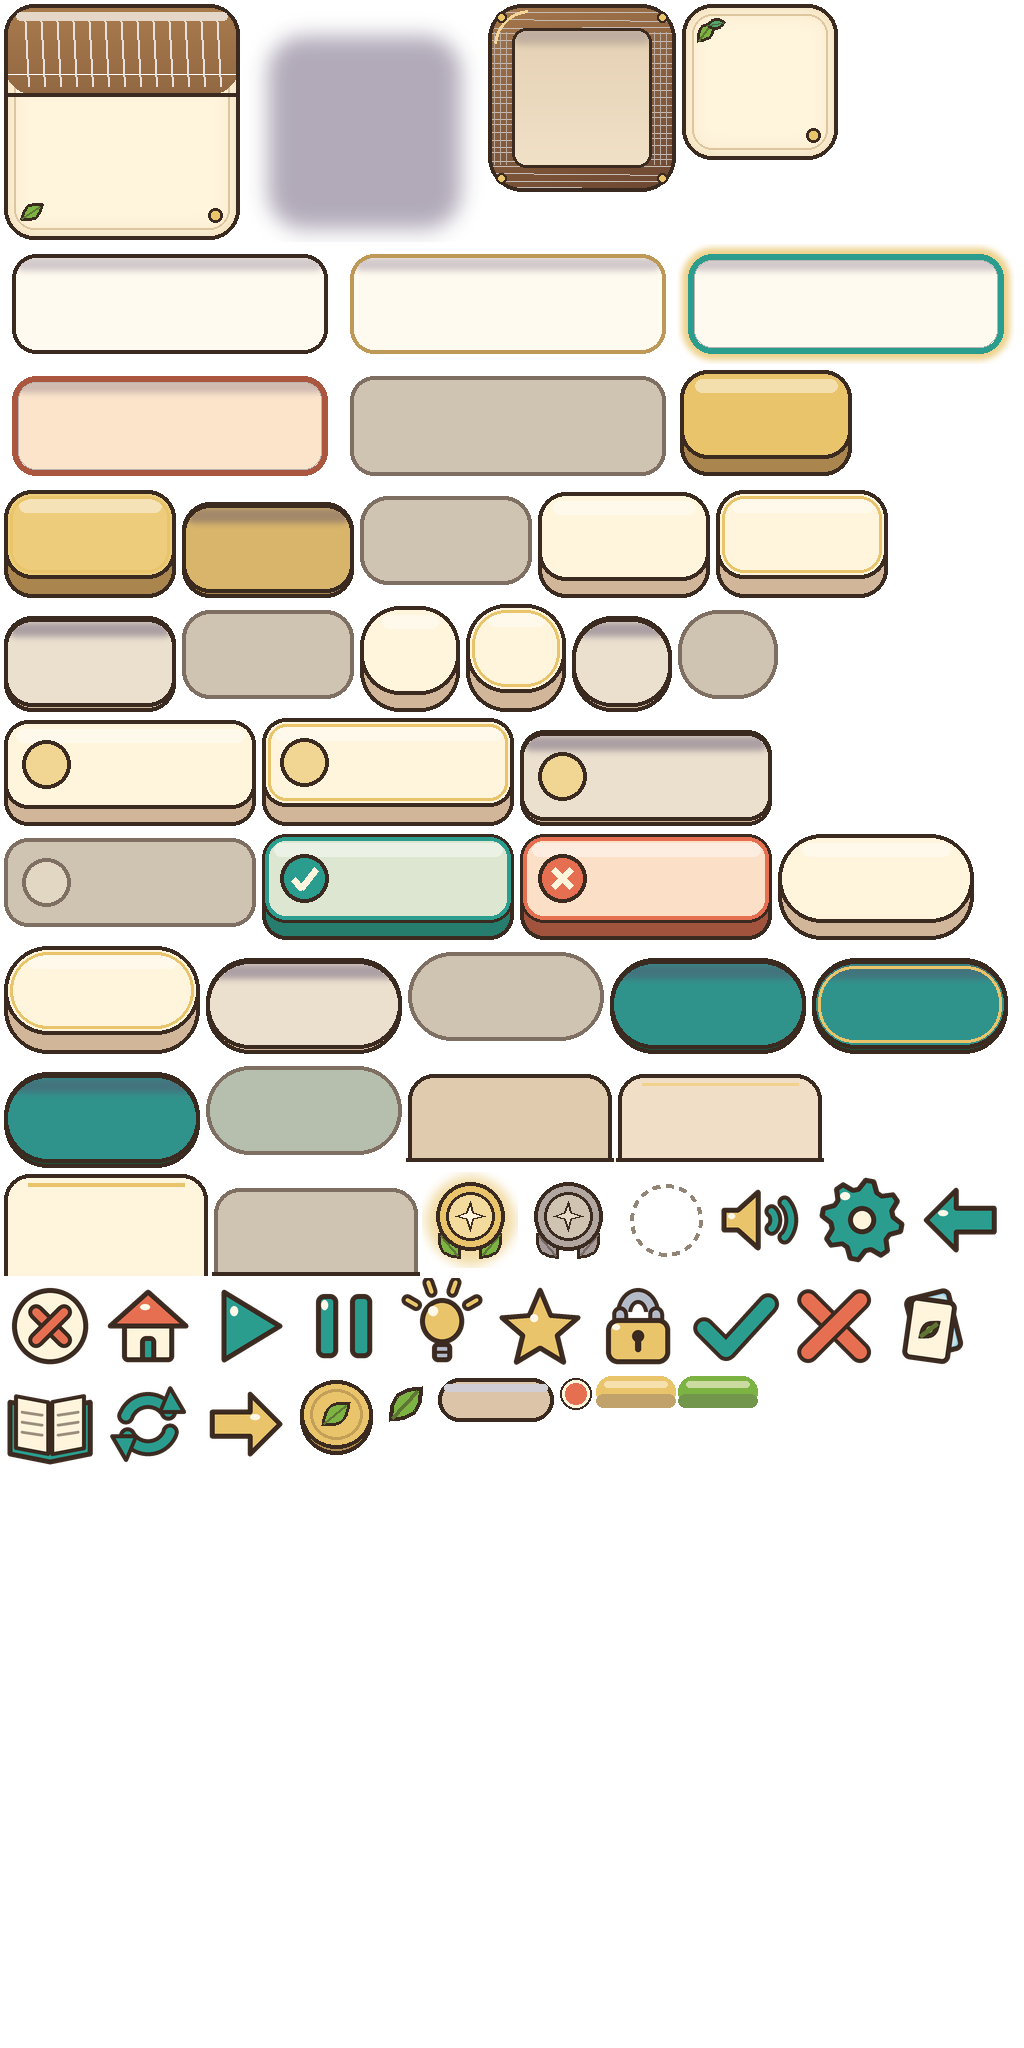
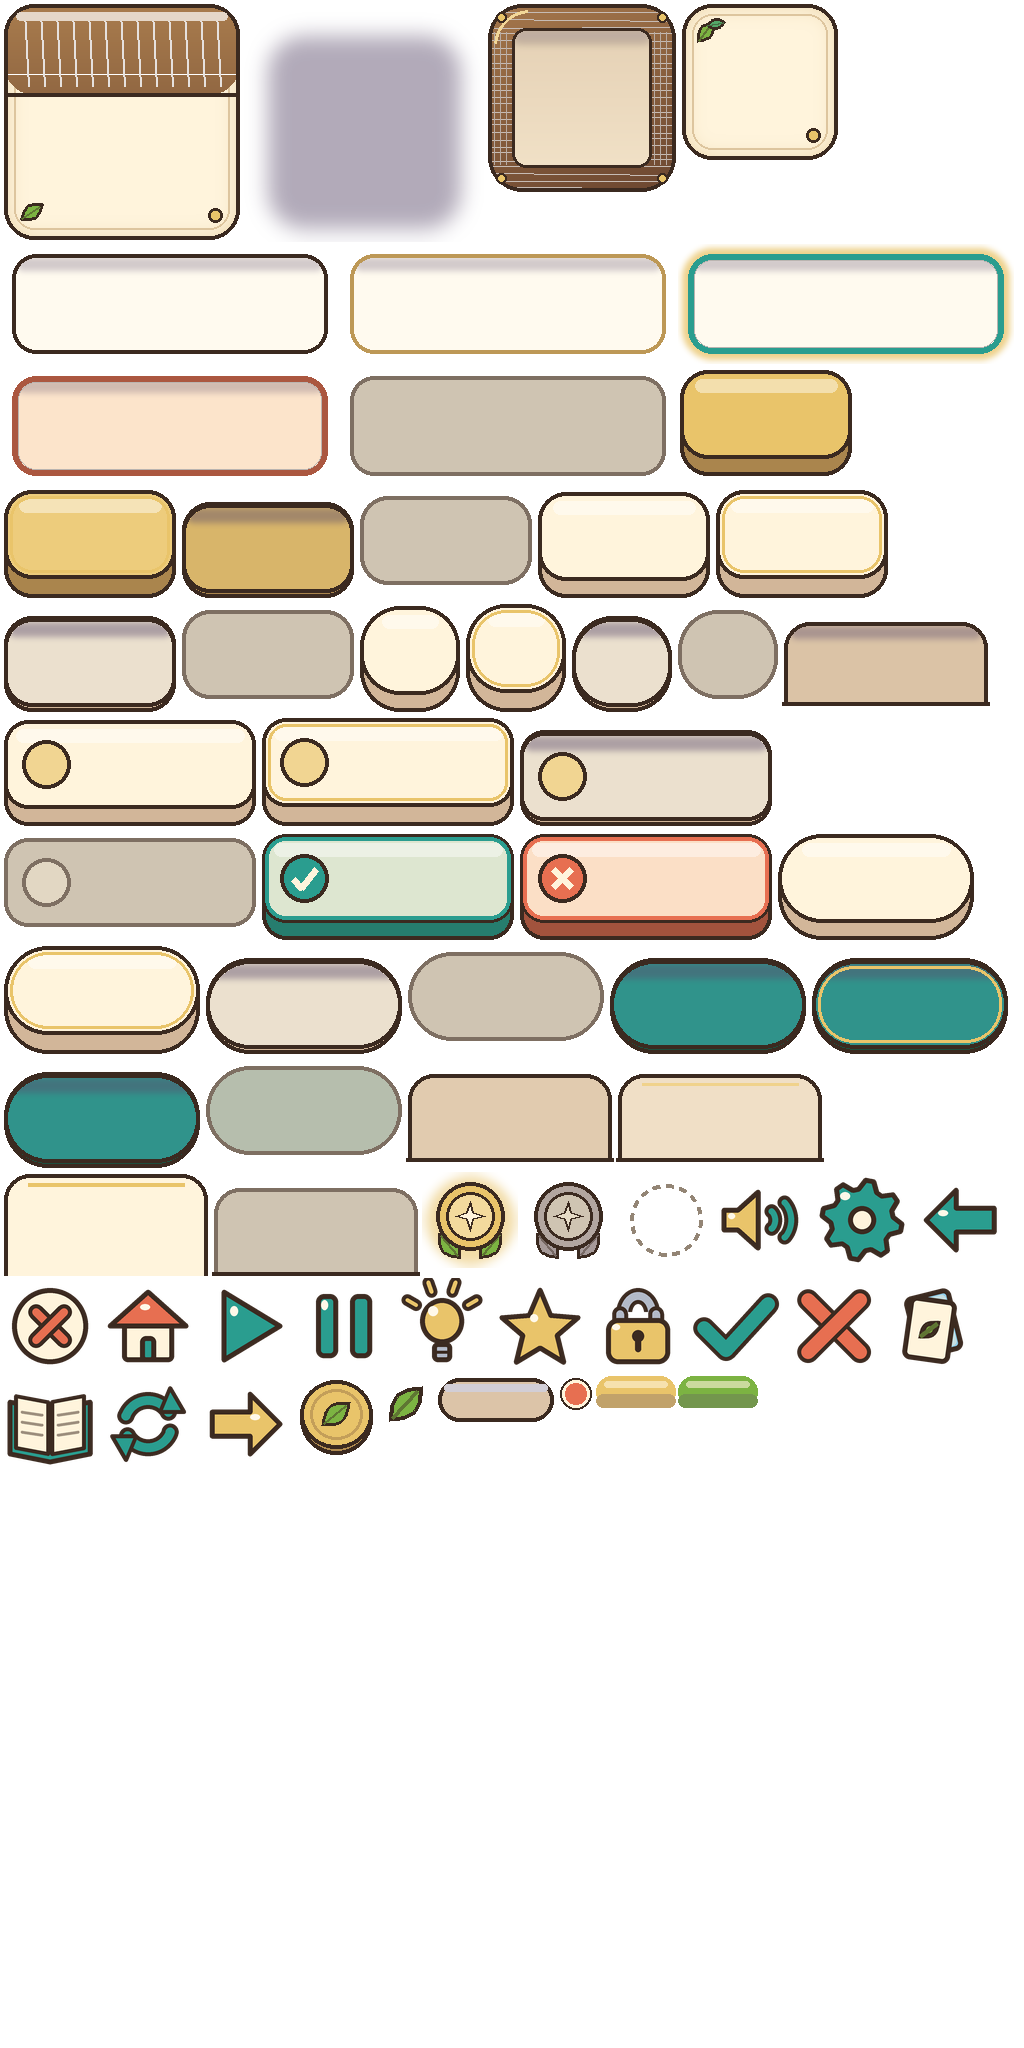
Add the provisional tab press frame and the ready boss node.
Unselected tabs use tab_pressed while held, and a ready boss uses map_node_boss_ready. Existing atlas frames are unchanged.

Changed region(s): [[0.75, 0.2812, 0.9688, 0.3438]]

diff --git a/src/game/warm/frames.test.ts b/src/game/warm/frames.test.ts
@@ -1,0 +1,116 @@
+import { readFileSync } from "node:fs";
+import { PNG } from "pngjs";
+import { describe, expect, it } from "vitest";
+import { DEFAULT_APPEARANCE } from "../../domain/appearance";
+import { createSave, learnWord, setSelectedGrades } from "../../domain/progress";
+import { bossReady, requiredWordIds, stageStatuses } from "../../domain/stages";
+import sliceFile from "./slices.json";
+import { BOSS_NODE_ORIGIN, bossMapFrame, tabFrame, tabLabelY } from "./frames";
+
+const START = new Date("2026-03-01T02:00:00Z");
+
+interface AtlasFrame {
+  frame: { x: number; y: number; w: number; h: number };
+  sourceSize: { w: number; h: number };
+}
+
+interface AtlasFile {
+  frames: Record<string, AtlasFrame>;
+  meta: { size: { w: number; h: number } };
+}
+
+function atlas(name: string): AtlasFile {
+  return JSON.parse(readFileSync(`public/assets/warm/atlas/${name}.json`, "utf8")) as AtlasFile;
+}
+
+function png(name: string): PNG {
+  return PNG.sync.read(readFileSync(`public/assets/warm/atlas/${name}.png`));
+}
+
+function newSave(grades: string[]) {
+  return setSelectedGrades(
+    createSave({
+      name: "小林",
+      classId: "warrior",
+      appearance: DEFAULT_APPEARANCE,
+      now: START.getTime(),
+    }),
+    grades,
+  );
+}
+
+function learnRequired(save: ReturnType<typeof newSave>) {
+  let next = save;
+  for (const id of requiredWordIds(save)) next = learnWord(next, id, START);
+  return { ...next, stageWins: { "1": 1, "2": 1, "3": 1, "4": 1 } };
+}
+
+describe("warm batch b2.1 frames", () => {
+  it("loads tab_pressed at 208×104 with the same nine-slice insets as the other tabs", () => {
+    const file = atlas("atlas_ui_core");
+    const frame = file.frames.tab_pressed;
+    expect(frame).toBeTruthy();
+    expect(frame?.sourceSize).toEqual({ w: 208, h: 104 });
+    expect(frame?.frame.w).toBe(208);
+    expect(frame?.frame.h).toBe(104);
+    expect(frame!.frame.x + frame!.frame.w).toBeLessThanOrEqual(file.meta.size.w);
+    expect(frame!.frame.y + frame!.frame.h).toBeLessThanOrEqual(file.meta.size.h);
+    const image = png("atlas_ui_core");
+    expect(image.width).toBe(file.meta.size.w);
+    expect(image.height).toBe(file.meta.size.h);
+    const parts = sliceFile.parts as unknown as Record<string, { nineslice: { left: number; right: number; top: number; bottom: number } | null }>;
+    for (const name of ["tab_normal", "tab_hover", "tab_pressed", "tab_selected", "tab_disabled"]) {
+      expect(parts[name]?.nineslice).toEqual({ left: 34, right: 34, top: 30, bottom: 24 });
+    }
+  });
+
+  it("loads map_node_boss_ready at 300×300 with the same anchor as map_node_boss", () => {
+    const file = atlas("atlas_map");
+    const ready = file.frames.map_node_boss_ready;
+    const locked = file.frames.map_node_boss;
+    expect(ready?.sourceSize).toEqual({ w: 300, h: 300 });
+    expect(locked?.sourceSize).toEqual({ w: 300, h: 300 });
+    expect(ready?.frame).toMatchObject({ w: 300, h: 300 });
+    expect(ready!.frame.x + 300).toBeLessThanOrEqual(file.meta.size.w);
+    expect(ready!.frame.y + 300).toBeLessThanOrEqual(file.meta.size.h);
+    const image = png("atlas_map");
+    expect(image.width).toBe(file.meta.size.w);
+    expect(image.height).toBe(file.meta.size.h);
+    expect(BOSS_NODE_ORIGIN).toEqual({ x: 0.5, y: 142 / 300 });
+  });
+
+  it("presses an unselected tab onto tab_pressed and releases it onto tab_selected", () => {
+    expect(tabFrame(false, "normal")).toBe("tab_normal");
+    expect(tabFrame(false, "hover")).toBe("tab_hover");
+    expect(tabFrame(false, "pressed")).toBe("tab_pressed");
+    expect(tabLabelY(false, "normal")).toBe(-2);
+    expect(tabLabelY(false, "pressed")).toBe(0);
+    expect(tabFrame(false, "released")).toBe("tab_selected");
+    expect(tabLabelY(false, "released")).toBe(-2);
+    expect(tabFrame(true, "pressed")).toBe("tab_selected");
+    expect(tabLabelY(true, "pressed")).toBe(-2);
+    expect(tabFrame(true, "hover")).toBe("tab_selected");
+  });
+
+  it("uses the locked boss frame until the selected grades and extras are learned", () => {
+    const all = newSave(["G3", "G4", "G5", "G6"]);
+    expect(bossReady(all)).toBe(false);
+    expect(bossMapFrame(stageStatuses(all)[4]!)).toBe("map_node_boss");
+
+    const grade3 = learnRequired(newSave(["G3"]));
+    expect(requiredWordIds(grade3)).toHaveLength(16);
+    expect(bossReady(grade3)).toBe(true);
+    expect(bossMapFrame(stageStatuses(grade3)[4]!)).toBe("map_node_boss_ready");
+
+    const stillWide = learnRequired(newSave(["G3"]));
+    const widened = setSelectedGrades(stillWide, ["G3", "G4", "G5", "G6"]);
+    expect(bossReady(widened)).toBe(false);
+    expect(bossMapFrame(stageStatuses(widened)[4]!)).toBe("map_node_boss");
+
+    const ready = learnRequired(newSave(["G3", "G4", "G5", "G6"]));
+    expect(requiredWordIds(ready)).toHaveLength(28);
+    expect(bossReady(ready)).toBe(true);
+    expect(bossMapFrame(stageStatuses(ready)[4]!)).toBe("map_node_boss_ready");
+    expect(bossMapFrame("cleared")).toBe("map_node_boss_ready");
+  });
+});

diff --git a/src/game/warm/kit.ts b/src/game/warm/kit.ts
@@ -1,6 +1,7 @@
 import Phaser from "phaser";
 import sliceFile from "./slices.json";
 import { blip } from "../audio";
+import { tabFrame, tabLabelY } from "./frames";
 import { CREAM, DIS_TEXT, FONT_LATIN, FONT_TITLE, INK, motionOff } from "./theme";
 
 interface SlicePart {
@@ -302,13 +303,11 @@ export function warmTab(
   const states: ButtonState[] = ["normal", "hover", "pressed", "disabled"];
   const slices = {} as Record<ButtonState, Phaser.GameObjects.NineSlice>;
   for (const state of states) {
-    // The delivered tab sheet has no pressed frame. Press uses the hover frame.
-    const delivered = state === "pressed" ? "hover" : state;
-    const frame = selected ? "tab_selected" : `tab_${delivered}`;
+    const frame = state === "disabled" ? (selected ? "tab_selected" : "tab_disabled") : tabFrame(selected, state);
     slices[state] = warmSlice(scene, "atlas_ui_core", frame, width, height);
   }
   const text = scene.add
-    .text(0, -2, label, {
+    .text(0, tabLabelY(selected, "normal"), label, {
       fontFamily: FONT_TITLE,
       fontSize: "22px",
       color: INK,
@@ -328,14 +327,22 @@ export function warmTab(
   root.on("pointerout", () => {
     down = false;
     showState(slices, "normal");
+    text.setY(tabLabelY(selected, "normal"));
   });
   root.on("pointerdown", () => {
     down = true;
-    if (!selected) showState(slices, "pressed");
+    if (selected) return;
+    showState(slices, "pressed");
+    text.setY(tabLabelY(false, "pressed"));
   });
   root.on("pointerup", () => {
     if (!down) return;
     down = false;
+    if (!selected) {
+      slices.normal.setFrame(tabFrame(false, "released"));
+      showState(slices, "normal");
+    }
+    text.setY(tabLabelY(true, "released"));
     blip();
     onClick();
   });

diff --git a/src/game/scenes/StageMapScene.ts b/src/game/scenes/StageMapScene.ts
@@ -19,6 +19,7 @@ import { getSave } from "../session";
 import { FONT, listenKeys } from "../ui";
 import { warmBar, warmButton, warmPanel } from "../warm/kit";
 import { queueWarm, warmBackground } from "../warm/load";
+import { BOSS_NODE_ORIGIN, bossMapFrame } from "../warm/frames";
 import { FONT_LATIN, FONT_TITLE, INK, MUTED, whenGlyphsReady } from "../warm/theme";
 
 const NODE_AT = [
@@ -114,13 +115,14 @@ export class StageMapScene extends Phaser.Scene {
       const itemStatus = statuses[index] ?? "locked";
       const spot = NODE_AT[index] ?? NODE_AT[0]!;
       const frame = item.type === "boss"
-        ? "map_node_boss"
+        ? bossMapFrame(itemStatus)
         : itemStatus === "cleared"
           ? "map_node_cleared"
           : itemStatus === "open"
             ? "map_node_current"
             : "map_node_locked";
       const node = this.add.image(spot.x, spot.y, "atlas_map", frame).setScale(0.5);
+      if (item.type === "boss") node.setOrigin(BOSS_NODE_ORIGIN.x, BOSS_NODE_ORIGIN.y);
       const picked = item.id === stage.id;
       if (picked) node.setScale(0.56);
       if (itemStatus === "open") {

diff --git a/src/game/warm/frames.ts b/src/game/warm/frames.ts
@@ -1,0 +1,26 @@
+/** Resting tab label, in logical pixels. Pressed text sits 2 below this. */
+export const TAB_LABEL_Y = -2;
+
+export const BOSS_NODE_ORIGIN = { x: 0.5, y: 142 / 300 } as const;
+
+export type TabPointer = "normal" | "hover" | "pressed";
+
+/**
+ * Unselected tabs use normal, hover, and pressed frames.
+ * A selected tab stays on tab_selected, including while it is held down.
+ * Releasing a press selects the tab.
+ */
+export function tabFrame(selected: boolean, pointer: TabPointer | "released"): string {
+  if (selected || pointer === "released") return "tab_selected";
+  return `tab_${pointer}`;
+}
+
+export function tabLabelY(selected: boolean, pointer: TabPointer | "released"): number {
+  if (!selected && pointer === "pressed") return TAB_LABEL_Y + 2;
+  return TAB_LABEL_Y;
+}
+
+/** Locked boss nodes keep the lock frame. An open or cleared boss uses the ready frame. */
+export function bossMapFrame(status: "locked" | "open" | "cleared" | "skipped"): "map_node_boss" | "map_node_boss_ready" {
+  return status === "locked" ? "map_node_boss" : "map_node_boss_ready";
+}
